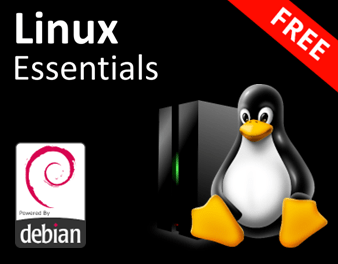
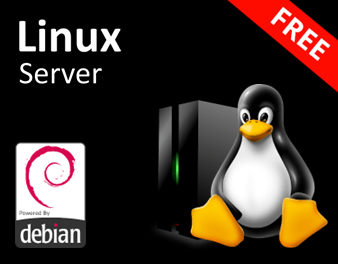
update files

Changed region(s): [[0.0296, 0.0303, 0.4734, 0.3333]]

diff --git a/index.html b/index.html
@@ -56,7 +56,7 @@
         </p>
         <div class="TopicosIntro Flex2">
           <img src="img/laptop.png" alt="laptop">
-          <p>C - Java SE - Java EE - Full Stack</p>
+          <p>Linguagem C - Java - Full Stack</p>
         </div>
         <div class="TopicosIntro Flex2">
           <img src="img/tux.png" alt="tux">
@@ -75,7 +75,7 @@
     <div class="Container Flex3">
       <h2>Inscreva-se no canal do <span id="destacado">YouTube!</span></h2>
       <a href="https://www.youtube.com/c/RoboticapraticaBr/?sub_confirmation=1" target="_blank"
-        class="Botao">INSCREVER-SE</a>
+        class="Botao2">INSCREVER-SE</a>
     </div>
   </section>
 
@@ -92,21 +92,22 @@
           <a href="cursos/html5css3.html" class="Botao">Saiba +</a>
         </div>
         <div class="Card">
-          <img src="img/gitegithub.png" alt="git e github">
-          <h3>Git e GitHub na prática</h3>
-          <p>
-            Muitas empresas exigem o Git como pré-requisito e também usam o GitHub como ferramenta para contratação.
-          </p>
-          <a href="cursos/gitegithub.html" class="Botao">Saiba +</a>
-        </div>
-        <div class="Card">
           <img src="img/java.png" alt="java">
           <h3>Java para iniciantes</h3>
           <p>
-            Aprenda Java de forma prática e divertida. Este tutorial cria uma base sólida a todos(as) que desejam iniciar no mundo Java.
+            Aprenda Java de forma prática e divertida. Este tutorial cria uma base sólida a todos que desejam iniciar no mundo Java.
           </p>
           <a href="cursos/java.html" class="Botao">Saiba +</a>
         </div>
+        <div class="Card">
+          <img src="img/linux.png" alt="curso de linux" />
+          <h3>Linux Server</h3>
+          <p>
+            Tutorial recomendado aos alunos e profissionais de TI que desejam iniciar em Linux com foco no mercado
+            corporativo e certficação.
+          </p>
+          <a href="cursos/linux.html" class="Botao">Saiba +</a>
+        </div>      
       </div>
       <div class="Todos">
         <a href="cursos.html">Conheça todos >></a>
@@ -119,8 +120,16 @@
     <div class="Container">
       <h2>
         Que tipo de <span id="projeto">projeto</span> você quer fazer hoje?
-      </h2>
+      </h2>      
       <div class="Cards Flex5">
+        <div class="Card">
+          <img src="img/carometro.png" alt="java mysql">
+          <h3>Java MySQL - Carômetro</h3>
+          <p>
+            Carômetro é um aplicativo para desktop (Windows, Linux ou MAC) de repositório de informações de pessoas com uma foto associada.
+          </p>
+          <a href="projetos/carometro.html" class="Botao3">Saiba +</a>
+        </div>
         <div class="Card">
           <img src="img/sistemaos.png" alt="sistema java mysql">
           <h3>Java MySQL - Sistema OS</h3>
@@ -129,23 +138,15 @@
             sistema para gestão de serviços usando o Java e o banco de dados MySQL.
           </p>
           <a href="projetos/javamysql.html" class="Botao3">Saiba +</a>
-        </div>
+        </div>        
         <div class="Card">
-          <img src="img/mysql.png" alt="mysql linux">
-          <h3>Linux Database Server</h3>
+          <img src="img/tomcat.png" alt="linux tomcat" />
+          <h3>Linux Tomcat Server</h3>
           <p>
-            Neste projeto você irá implementar um servidor MySQL
-            baseado no Linux dedicado a sistemas comerciais em redes locais.
+            Neste projeto você irá aprender a implementar de forma simples e
+            prática um servidor WEB Java com Tomcat no Linux.
           </p>
-          <a href="projetos/mysql.html" class="Botao3">Saiba +</a>
-        </div>
-        <div class="Card">
-          <img src="img/javacep.png" alt="projeto java cep">
-          <h3>Busca automática de CEP</h3>
-          <p>
-            Mini projeto que ensina a fazer a busca automática de um CEP usando o Java e pode ser usado para agilizar o processo de cadastro em sistemas.
-          </p>
-          <a href="projetos/javacep.html" class="Botao3">Saiba +</a>
+          <a href="projetos/tomcat.html" class="Botao3">Saiba +</a>
         </div>
       </div>
       <div class="Todos">

diff --git a/projetos/carometro.html b/projetos/carometro.html
@@ -1,0 +1,94 @@
+<!DOCTYPE html>
+<html lang="pt-br">
+  <head>
+    <meta charset="UTF-8" />
+    <meta
+      name="viewport"
+      content="width=device-width,
+   initial-scale=1.0"
+    />
+    <meta http-equiv="X-UA-Compatible" content="ie=edge" />
+    <meta
+      name="description"
+      content="Projeto de um repositório de informações de pessoas com foto associada usando Java e MySQL"
+    />
+    <title>Java MySQL - Carômetro</title>
+    <link rel="icon" href="../img/favicon.png" />
+    <link rel="stylesheet" href="../style.css" />
+  </head>
+
+  <body>
+    <!-- Cabeçalho -->
+    <header>
+      <div class="ContainerEx Flex">
+        <div id="logo">
+          <img src="../img/logo.png" alt="hal 9000" />
+        </div>
+        <nav>
+          <input type="checkbox" id="check" />
+          <label for="check">&#x268c;</label>
+          <ul>
+            <li><a href="../index.html">Home</a></li>
+            <li><a href="../sobre.html">Sobre</a></li>
+            <li><a href="../cursos.html">Tutoriais</a></li>
+            <li><a href="../projetos.html">Projetos</a></li>
+            <li><a href="../apoio.html">Apoio</a></li>
+          </ul>
+        </nav>
+      </div>
+    </header>
+
+    <!-- Destaque Cursos -->
+    <main class="Banner2">
+      <div class="Container">
+        <h1>Projetos</h1>
+      </div>
+    </main>
+
+    <!-- Conteúdo -->
+    <section id="conteudo">
+      <div class="Container">
+        <h2>Java MySQL - Projeto Carômetro</h2>
+        <p>
+          Carômetro é um aplicativo para desktop (Windows, Linux ou MAC) de repositório de informações de pessoas com uma foto associada. Neste exemplo um carômetro de alunos, porém você pode reutilizar este projeto e criar um repositório de imagens de uma equipe, candidatos, jogadores de futebol etc.
+        </p>
+        <h3>Apresentação do projeto:</h3>
+        <div class="Video">          
+          <iframe width="560" height="315" src="https://www.youtube.com/embed/uOoQ0fKeVSg?si=KR0Q3pP7ZgsvoICq" title="YouTube video player" allow="accelerometer; autoplay; clipboard-write; encrypted-media; gyroscope; picture-in-picture; web-share" allowfullscreen>            
+          </iframe>
+        </div>
+        <h3>Playlist:</h3>
+        <a
+          href="https://www.youtube.com/playlist?list=PLbEOwbQR9lqz6tSoH51QAEzpo1VsXgvIv"
+          target="_blank"
+          >Iniciar tutorial</a
+        >
+        <h3>Material de apoio:</h3>
+        <a href="https://github.com/professorjosedeassis/carometro" target="_blank"
+          ><img src="../img/pasta.png" alt="github"
+        /></a>
+      </div>
+    </section>
+
+    <!-- Rodapé -->
+  <footer>
+    <div class="Container Flex4">
+      <div id="copyright">
+        <p>©2023 - Professor José de Assis</p>
+      </div>
+      <div id="social">
+        <a href="https://www.youtube.com/c/RoboticapraticaBr" target="_blank"><img src="img/youtube.png" alt="youtube"></a>
+        <a href="https://www.linkedin.com/in/professorjosedeassis" target="_blank"><img src="img/linkedin.png" alt="linkedin"></a>
+        <a href="https://www.facebook.com/professorjosedeassis" target="_blank"><img src="img/facebook.png" alt="facebook"></a>
+        <a href="https://www.instagram.com/prof.joseassis/" target="_blank"><img src="img/instagram.png" alt="instagram"></a>
+        <a href="https://twitter.com/joseassis" target="_blank"><img src="img/twitter.png" alt="twitter"></a>
+      </div>
+    </div>
+  </footer>
+
+  <!-- Topo -->
+  <a href="#" id="topo"><img src="img/topo.png" alt="topo do site"></a>
+  
+</body>
+
+</html>

diff --git a/projetos.html b/projetos.html
@@ -54,6 +54,25 @@
           <a href="apoio.html" class="Botao3">Saiba +</a>
         </div>
         <div class="Card">
+          <img src="img/javacep.png" alt="projeto java cep" />
+          <h3>Busca automática de CEP</h3>
+          <p>
+            Mini projeto que ensina a fazer a busca automática de um CEP
+            usando o Java e pode ser usado para agilizar o processo de
+            cadastro em sistemas.
+          </p>
+          <a href="projetos/javacep.html" class="Botao3">Saiba +</a>
+        </div>
+        <div class="Card">
+          <img src="img/mysql.png" alt="mysql linux" />
+          <h3>Linux Database Server</h3>
+          <p>
+            Neste projeto você irá implementar um servidor MySQL
+            baseado no Linux dedicado a sistemas comerciais em redes locais.
+          </p>
+          <a href="projetos/mysql.html" class="Botao3">Saiba +</a>
+        </div> 
+        <div class="Card">
           <img src="img/tomcat.png" alt="linux tomcat" />
           <h3>Linux Tomcat Server</h3>
           <p>
@@ -71,25 +90,14 @@
             MySQL.
           </p>
           <a href="projetos/javamysql.html" class="Botao3">Saiba +</a>
-        </div>
+        </div>               
         <div class="Card">
-          <img src="img/mysql.png" alt="mysql linux" />
-          <h3>Linux Database Server</h3>
+          <img src="img/carometro.png" alt="java mysql">
+          <h3>Java MySQL - Carômetro</h3>
           <p>
-            Neste projeto você irá implementar um servidor MySQL
-            baseado no Linux dedicado a sistemas comerciais em redes locais.
+            Carômetro é um aplicativo para desktop (Windows, Linux ou MAC) de repositório de informações de pessoas com uma foto associada.
           </p>
-          <a href="projetos/mysql.html" class="Botao3">Saiba +</a>
-        </div>
-        <div class="Card">
-          <img src="img/javacep.png" alt="projeto java cep" />
-          <h3>Busca automática de CEP</h3>
-          <p>
-            Mini projeto que ensina a fazer a busca automática de um CEP
-            usando o Java e pode ser usado para agilizar o processo de
-            cadastro em sistemas.
-          </p>
-          <a href="projetos/javacep.html" class="Botao3">Saiba +</a>
+          <a href="projetos/carometro.html" class="Botao3">Saiba +</a>
         </div>
         <div class="Card">
           <img src="img/robotica.png" alt="robotica prática" />

diff --git a/cursos/linux.html b/cursos/linux.html
@@ -43,7 +43,7 @@
   <!-- Conteúdo -->
   <section id="conteudo">
     <div class="Container">
-      <h2>Linux Essentials</h2>
+      <h2>Linux Server</h2>
       <p>
         Este tutorial é ideal para estudantes e profissionais de TI que desejam iniciar em Linux com foco no mercado de
         trabalho (Administração de Servidores Linux e CLOUD). Este tutorial também forma uma base sólida para quem deseja
@@ -65,8 +65,8 @@
           <p>Neste módulo o objetivo é montar um servidor WEB dinâmico.</p>
         </li>
         <li>
-          <h4>Módulo 4 - Servidor de banco de dados</h4>
-          <p>Neste módulo você irá aprender a administrar e gerenciar um servidor de banco de dados.</p>
+          <h4>Módulo 4 - Administração do servidor</h4>
+          <p>Neste módulo você irá aprender a administrar e gerenciar um servidor Linux.</p>
         </li>
       </ul>
       <h3>Pré-requisitos:</h3>

diff --git a/sobre.html b/sobre.html
@@ -48,7 +48,7 @@
       </div>
       <div id="textoProf">
         <h2>Olá!</h2>
-        <p>Eu sou o professor José de Assis seja bem-vindo(a) ao meu Website. Aqui você encontra tutoriais, projetos e conteúdo de qualidade nas áreas de Programação e Linux.</p>
+        <p>Eu sou o professor José de Assis boas-vindas ao meu Website. Aqui você encontra tutoriais, projetos e conteúdo de qualidade nas áreas de Programação e Linux.</p>
         <p>Sou formado em eletrônica e gestão de TI, pós-graduado em Robótica Educacional e certificado em Linux LPIC-1.
           Atuo como professor no SENAC São Paulo desde 2005.</p>
           <p><span id=frase>"A vida é como andar de bicicleta. Para ter equilíbrio, você tem que se manter em movimento..."</span></p>

diff --git a/cursos.html b/cursos.html
@@ -74,7 +74,7 @@
         </div>
         <div class="Card">
           <img src="img/linux.png" alt="curso de linux" />
-          <h3>Linux Essentials</h3>
+          <h3>Linux Server</h3>
           <p>
             Tutorial recomendado aos alunos e profissionais de TI que desejam iniciar em Linux com foco no mercado
             corporativo e certficação.

diff --git a/style.css b/style.css
@@ -270,7 +270,7 @@ nav ul li a {
 
 /* youtube */
 #youtube {
-  background: url(img/banner2.jpg);
+  background-color: #c00000;
   background-size: cover;
   background-position: center;
 }
@@ -598,7 +598,7 @@ footer {
 
   /* Banner */
   #banner {
-    height: 70vh;
+    height: 65vh;
   }
 
   #banner h1 {
